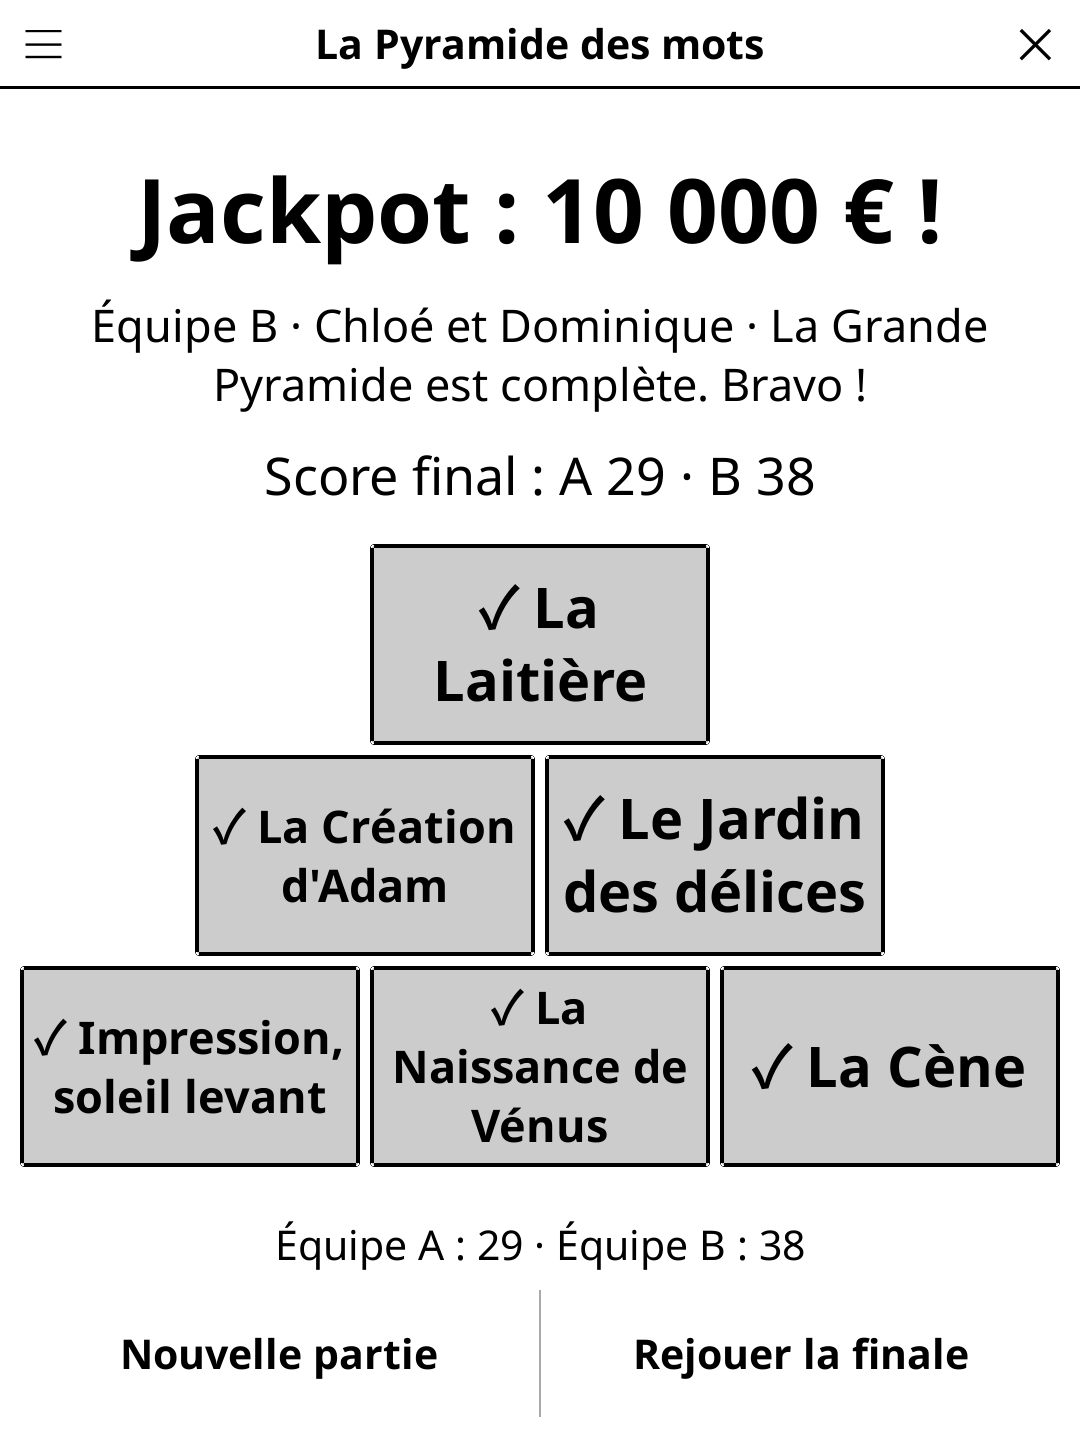
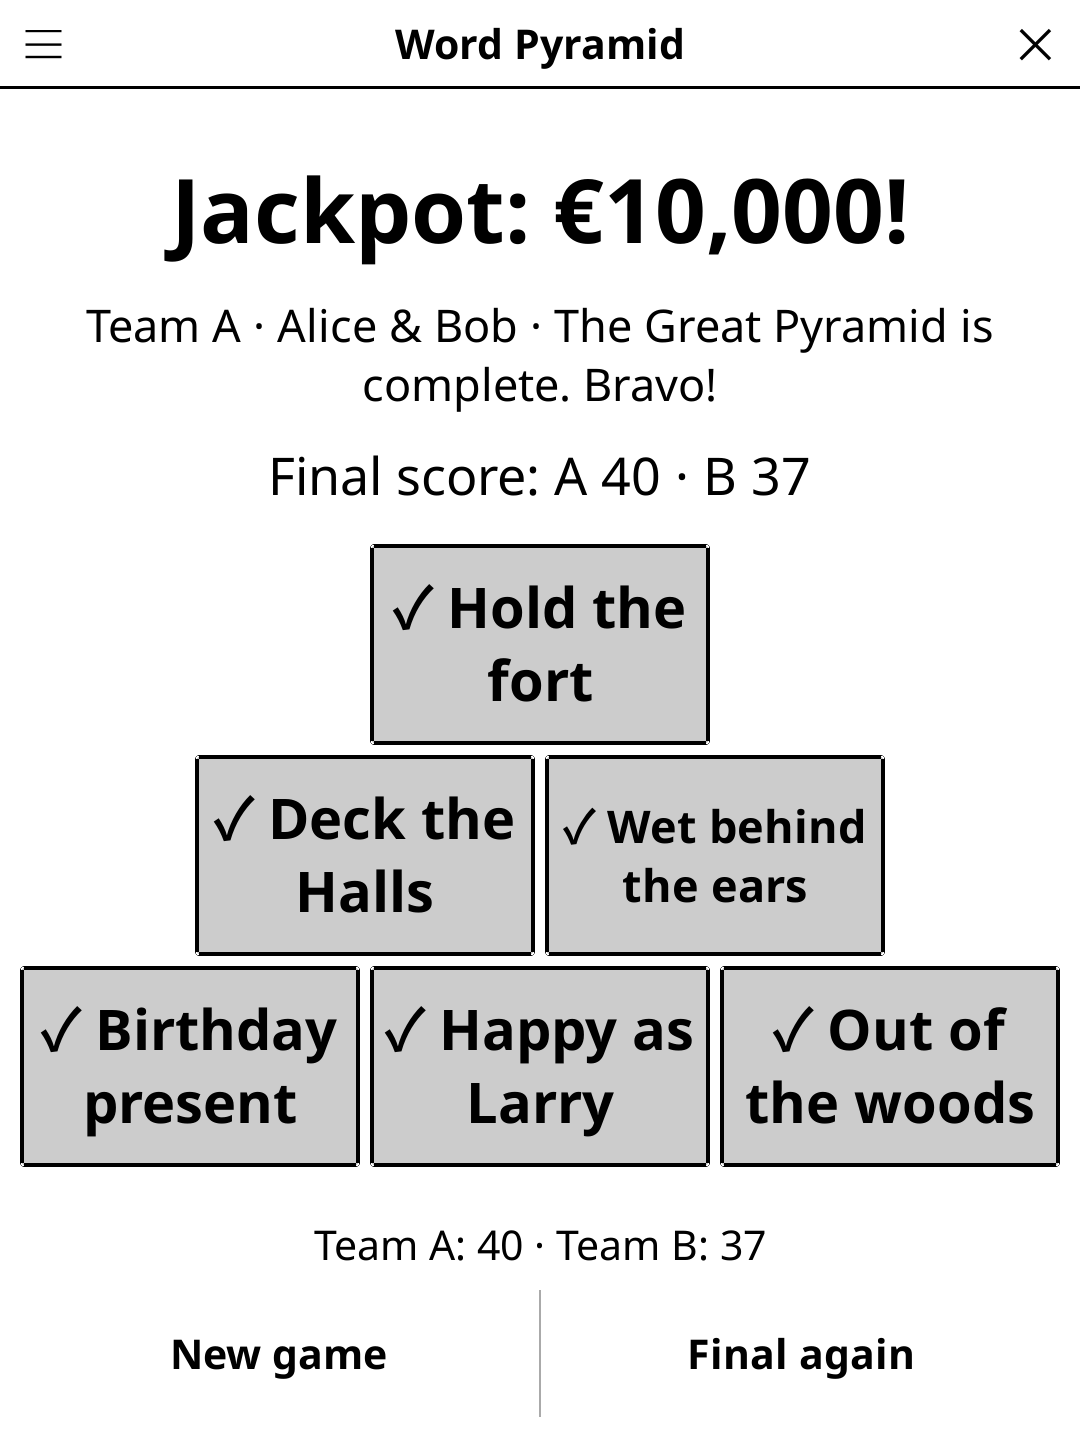
release: 1.2.5 -- Picks up game-common 1.20.0: a deferred action (timer tick, computer's
See CHANGELOG.md.

diff --git a/CHANGELOG.md b/CHANGELOG.md
@@ -1,5 +1,14 @@
 # Changelog
 
+## [1.2.5] - 2026-11-24
+
+### Changed
+- Picks up game-common 1.20.0: a deferred action (timer tick, computer's
+  move, card flip) no longer runs once the game is closed or a new game has
+  started, and the game is saved a few seconds after a move instead of after
+  every one, and at once on close, suspend or power-off.
+- The README screenshot shows the game in English.
+
 ## [1.2.4] - 2026-11-24
 
 ### Changed
